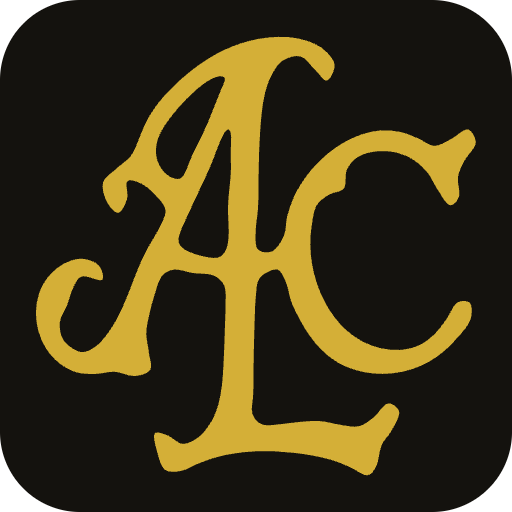
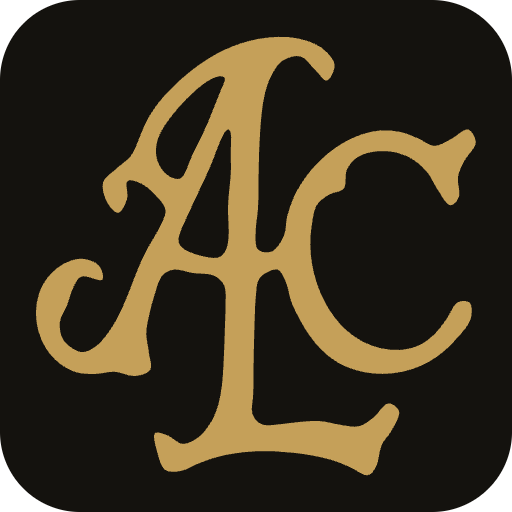
Antique gold instead of the yellow one
#D4AF37 read as yellow rather than metal. The monogram is now #C5A059, a warmer
antique gold, recoloured by the same un-blend and re-blend against the dark
ground so the script strokes keep their antialiasing. Rasters and favicon.ico
rebuilt from the recoloured master; svg link bumped to ?v=5 to clear caches.

Claude-Session: https://claude.ai/code/session_01WwgCwpLY7YwBuDfzKL3RNN

Changed region(s): [[0.0625, 0.0625, 0.9375, 0.9375]]

diff --git a/index.html b/index.html
@@ -11,7 +11,7 @@
 <meta property="og:url" content="https://aodhancoyne.com/">
 <meta property="og:image" content="https://aodhancoyne.com/assets/ms-croix.jpg">
 <meta name="twitter:card" content="summary_large_image">
-<link rel="icon" href="/assets/favicon.svg?v=4" type="image/svg+xml">
+<link rel="icon" href="/assets/favicon.svg?v=5" type="image/svg+xml">
 <link rel="icon" type="image/png" sizes="96x96" href="/assets/favicon-96.png">
 <link rel="icon" type="image/png" sizes="48x48" href="/assets/favicon-48.png">
 <link rel="icon" href="/favicon.ico">
